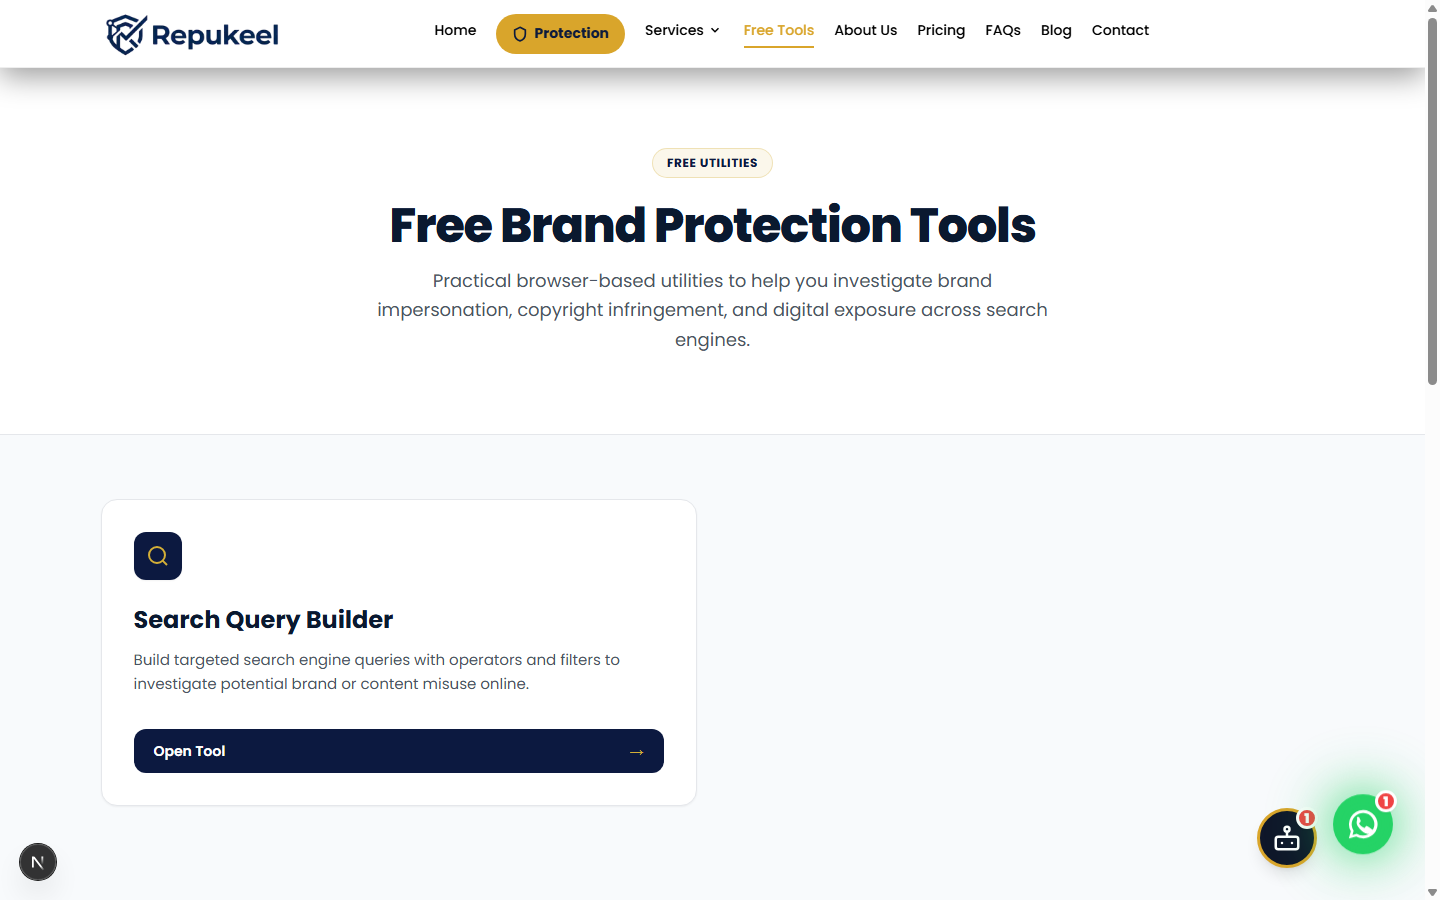
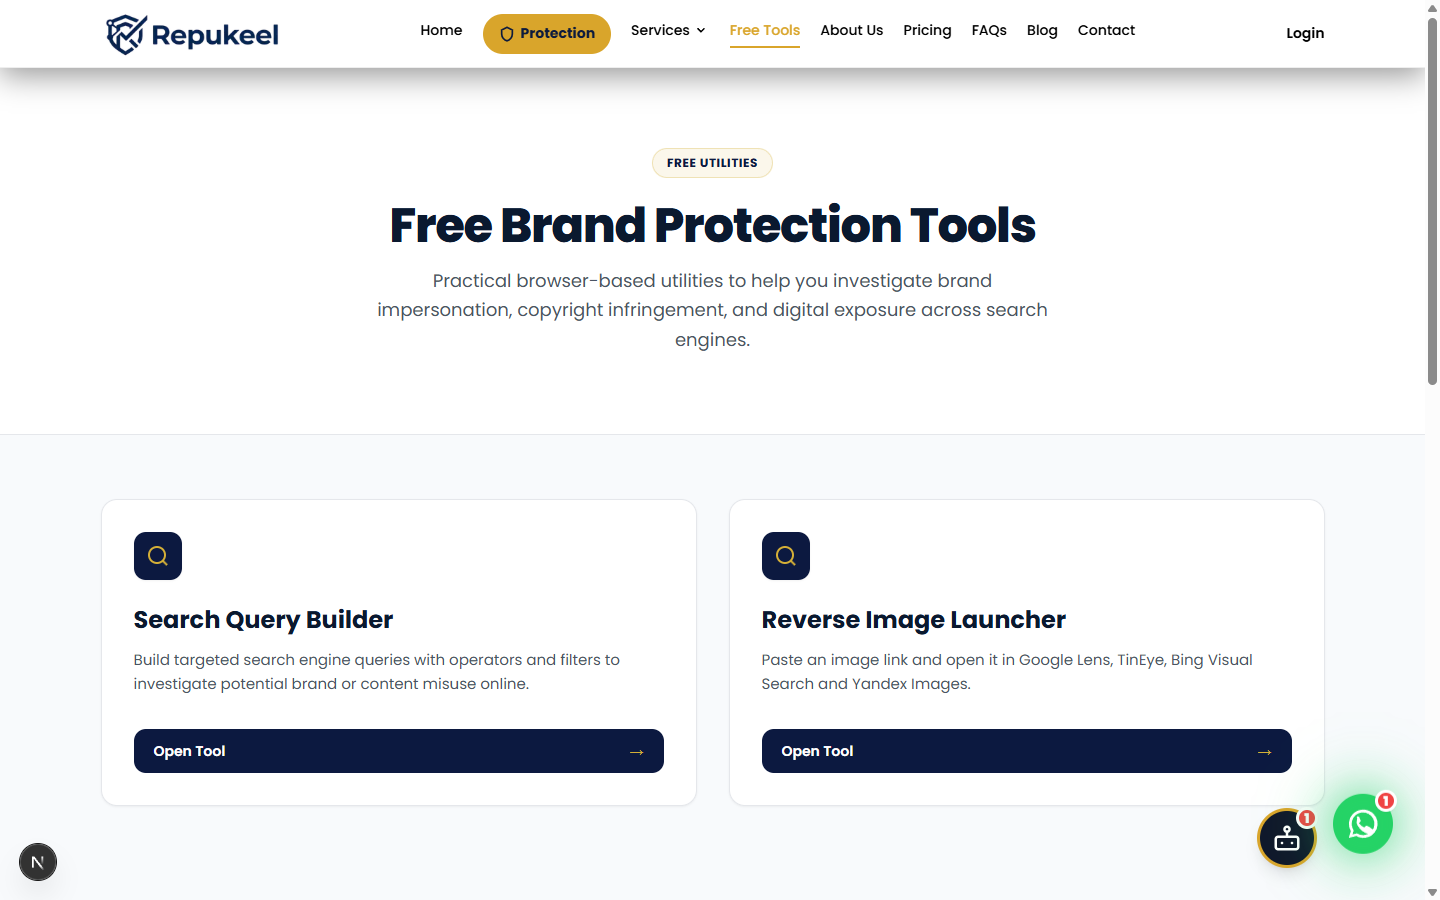
feat(tools): register reverse image launcher and cross-link from query builder

diff --git a/frontend/src/app/tools/search-query-builder/page.tsx b/frontend/src/app/tools/search-query-builder/page.tsx
@@ -163,6 +163,23 @@ export default function SearchQueryBuilderPage() {
             </div>
           </div>
 
+          {/* Related Tool */}
+          <div className="pt-4 border-t border-gray-100">
+            <h2 className="text-base font-bold text-[#0a192f] mb-3">
+              Related Tool
+            </h2>
+            <p className="text-sm text-gray-600">
+              Looking to search by image instead? Use the{' '}
+              <Link
+                href="/tools/reverse-image-search"
+                className="font-semibold text-[#0c1940] hover:text-[#d4af37] underline underline-offset-2"
+              >
+                Reverse Image Launcher
+              </Link>
+              .
+            </p>
+          </div>
+
           {/* Related Services Links */}
           <div className="pt-4 border-t border-gray-100">
             <h2 className="text-base font-bold text-[#0a192f] mb-3">

diff --git a/frontend/src/data/tools.ts b/frontend/src/data/tools.ts
@@ -14,4 +14,11 @@ export const tools: ToolItem[] = [
     href: '/tools/search-query-builder',
     enabled: true,
   },
+  {
+    slug: 'reverse-image-search',
+    title: 'Reverse Image Launcher',
+    description: 'Paste an image link and open it in Google Lens, TinEye, Bing Visual Search and Yandex Images.',
+    href: '/tools/reverse-image-search',
+    enabled: true,
+  },
 ];
